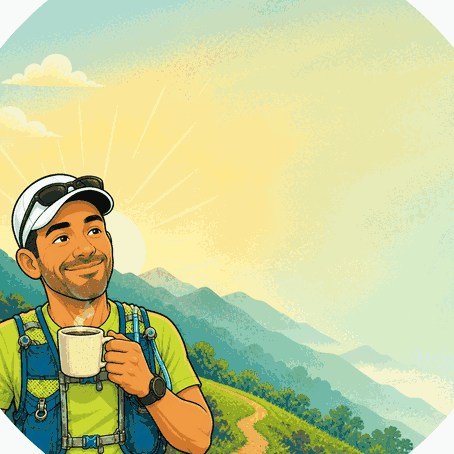
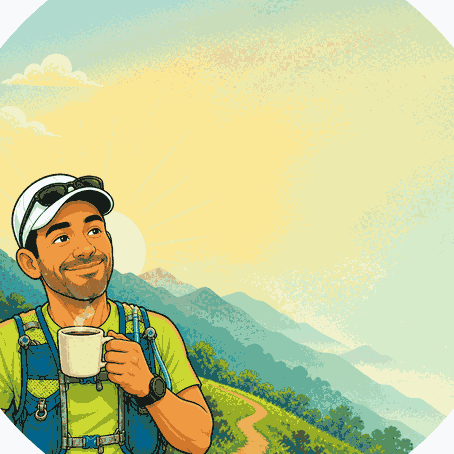
Improve background redraw handling

diff --git a/RELEASE_NOTES.md b/RELEASE_NOTES.md
@@ -12,6 +12,8 @@ change, alongside `NEXT_STEPS.md` when checklist items move.
   sunrise trail scene.
 - Added the active palette-reduced `454x454` Good Morning background to the
   watch-face resource bundle.
+- Reduced the active Good Morning background from 64 colors to 32 colors to
+  trim the resource payload while keeping the artwork readable.
 - Updated the mood schedule:
   - `06:00` through `10:29`: Good Morning, including days with a detected
     workout.
@@ -23,6 +25,13 @@ change, alongside `NEXT_STEPS.md` when checklist items move.
   so workout detection does not scan history on every partial update.
 - Uses black text with a white shadow on the pale Good Morning background for
   readability.
+- Draws the first startup frame with the lightweight mood fallback background
+  before loading the large mood bitmap, reducing black-screen time after reloads.
+- Caches the active mood bitmap resource but repaints the bitmap on full face
+  draws, so physical watches do not show text over a missing retained
+  background.
+- Invalidates only the drawn-background marker on wake, so the cached bitmap can
+  redraw after sleep without showing the lightweight fallback frame.
 
 ### Step Goal Mark
 
@@ -48,6 +57,8 @@ Implemented the Step Goal Mark replacement for the old step-goal sign:
 
 ### Verification
 
+- 2026-06-07: Built the device artifact for `fr57047mm` with `monkeyc`;
+  result: `BUILD SUCCESSFUL`.
 - 2026-06-06: Built the device artifact for `fr57047mm` with `monkeyc`;
   result: `BUILD SUCCESSFUL`.
 - 2026-06-04: Built the device artifact for `fr57047mm` with `monkeyc`;
